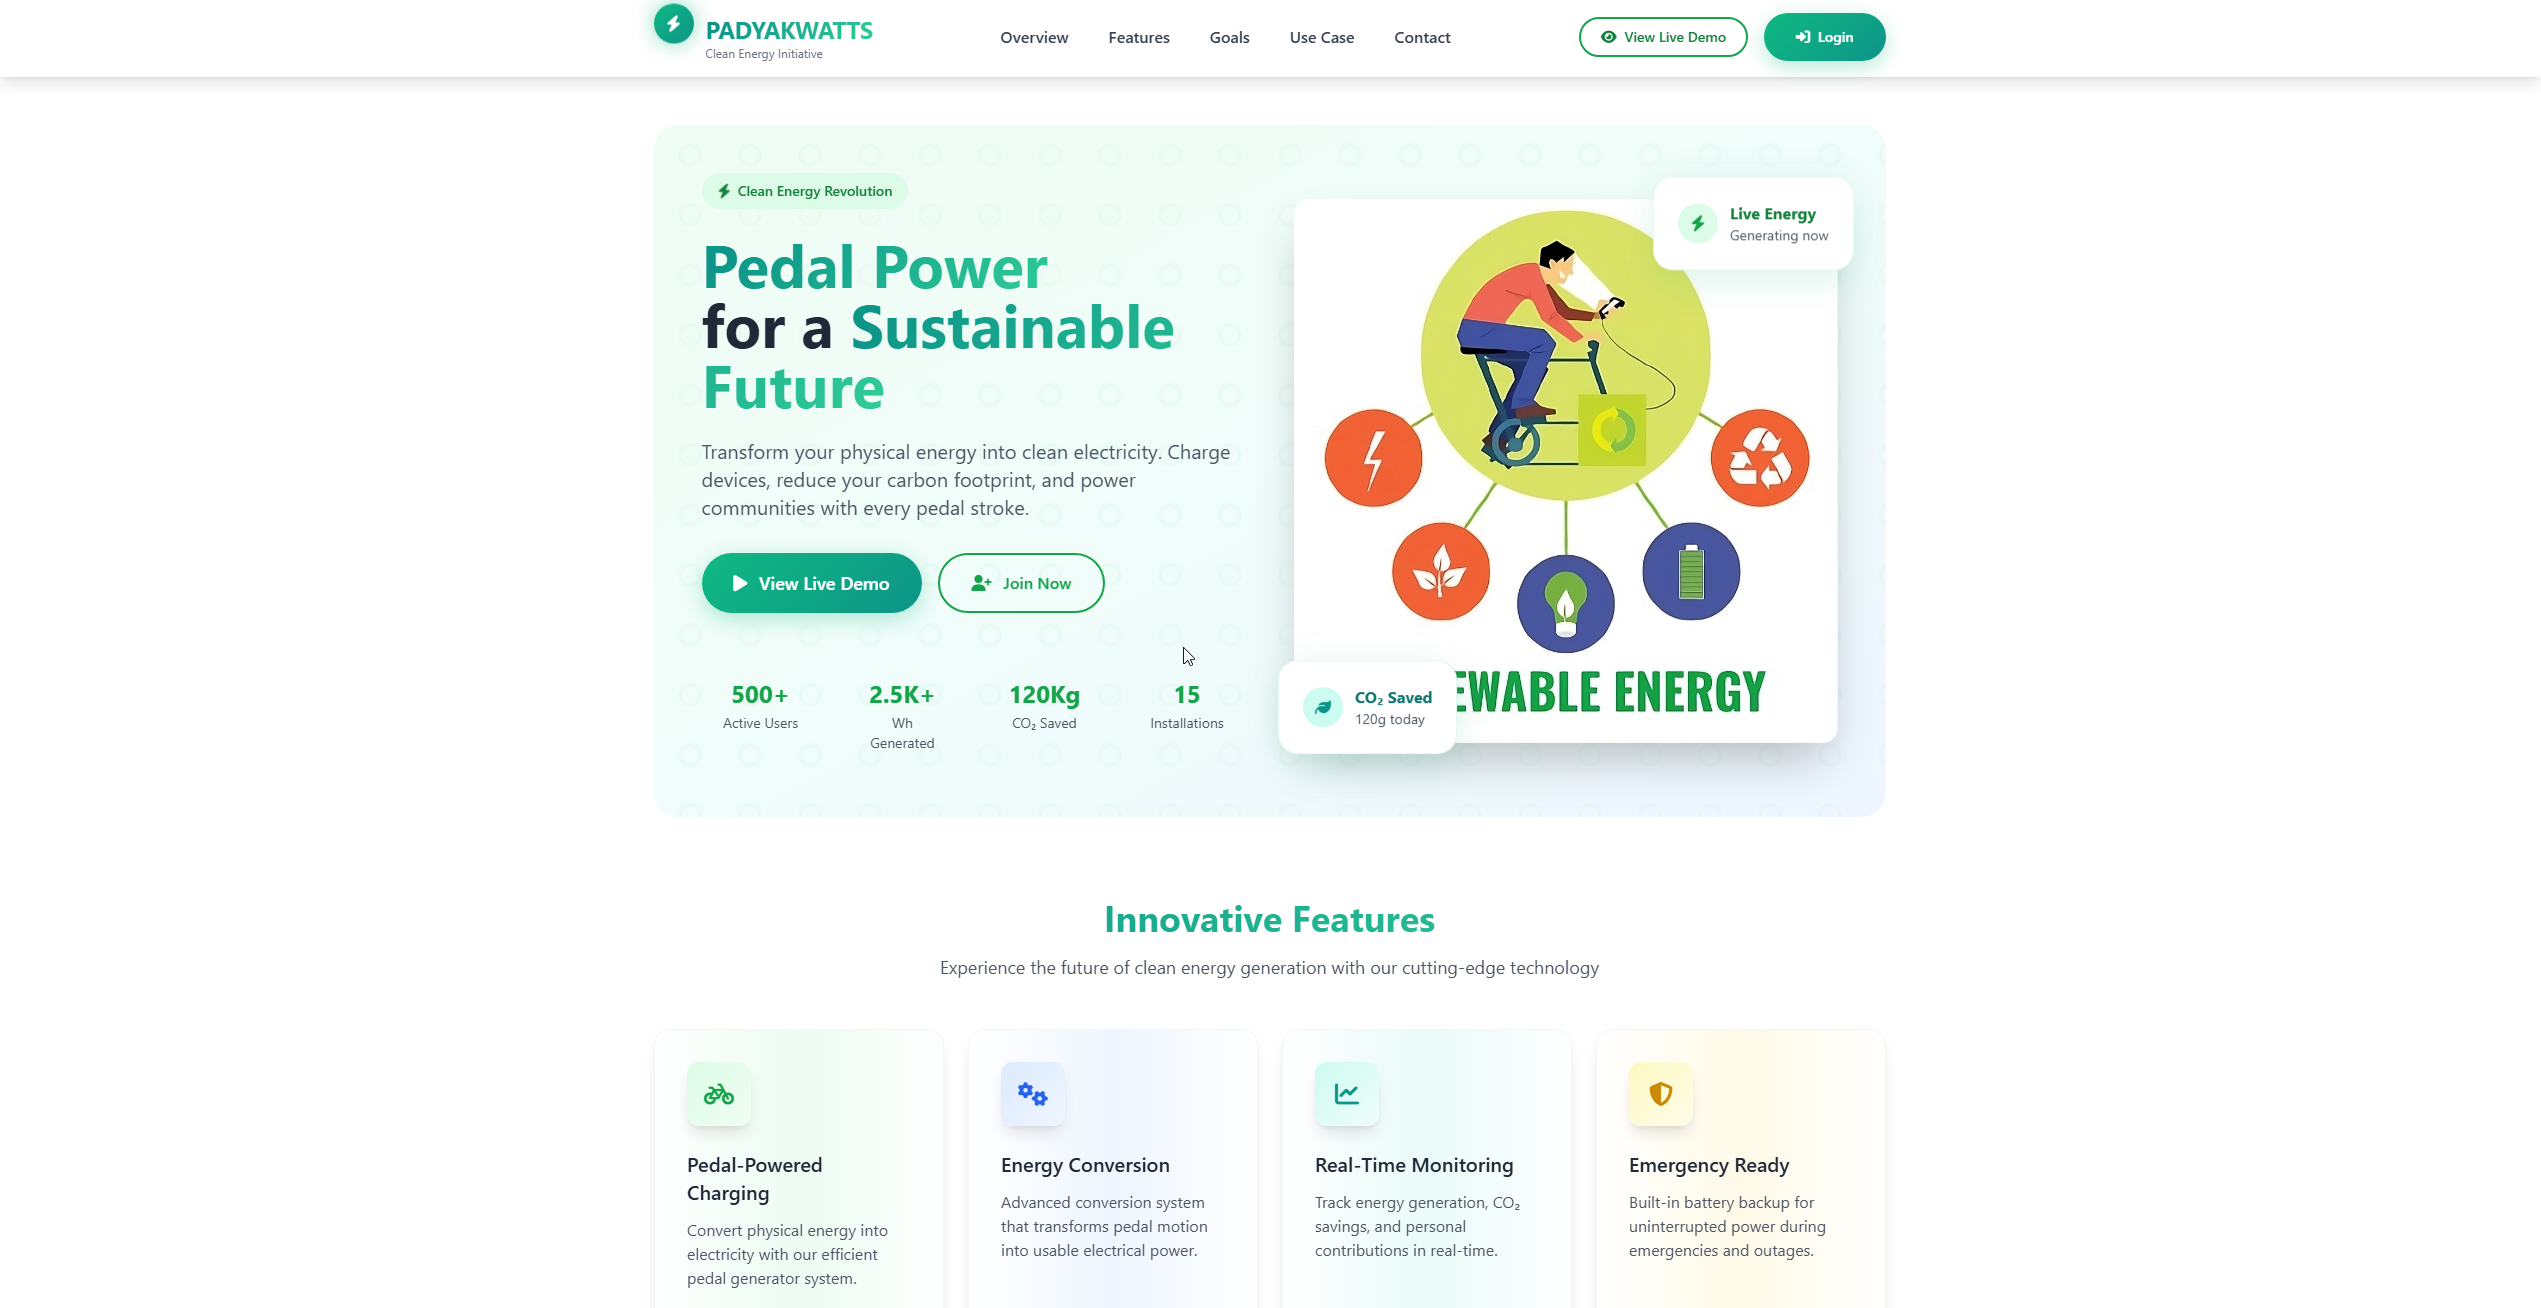
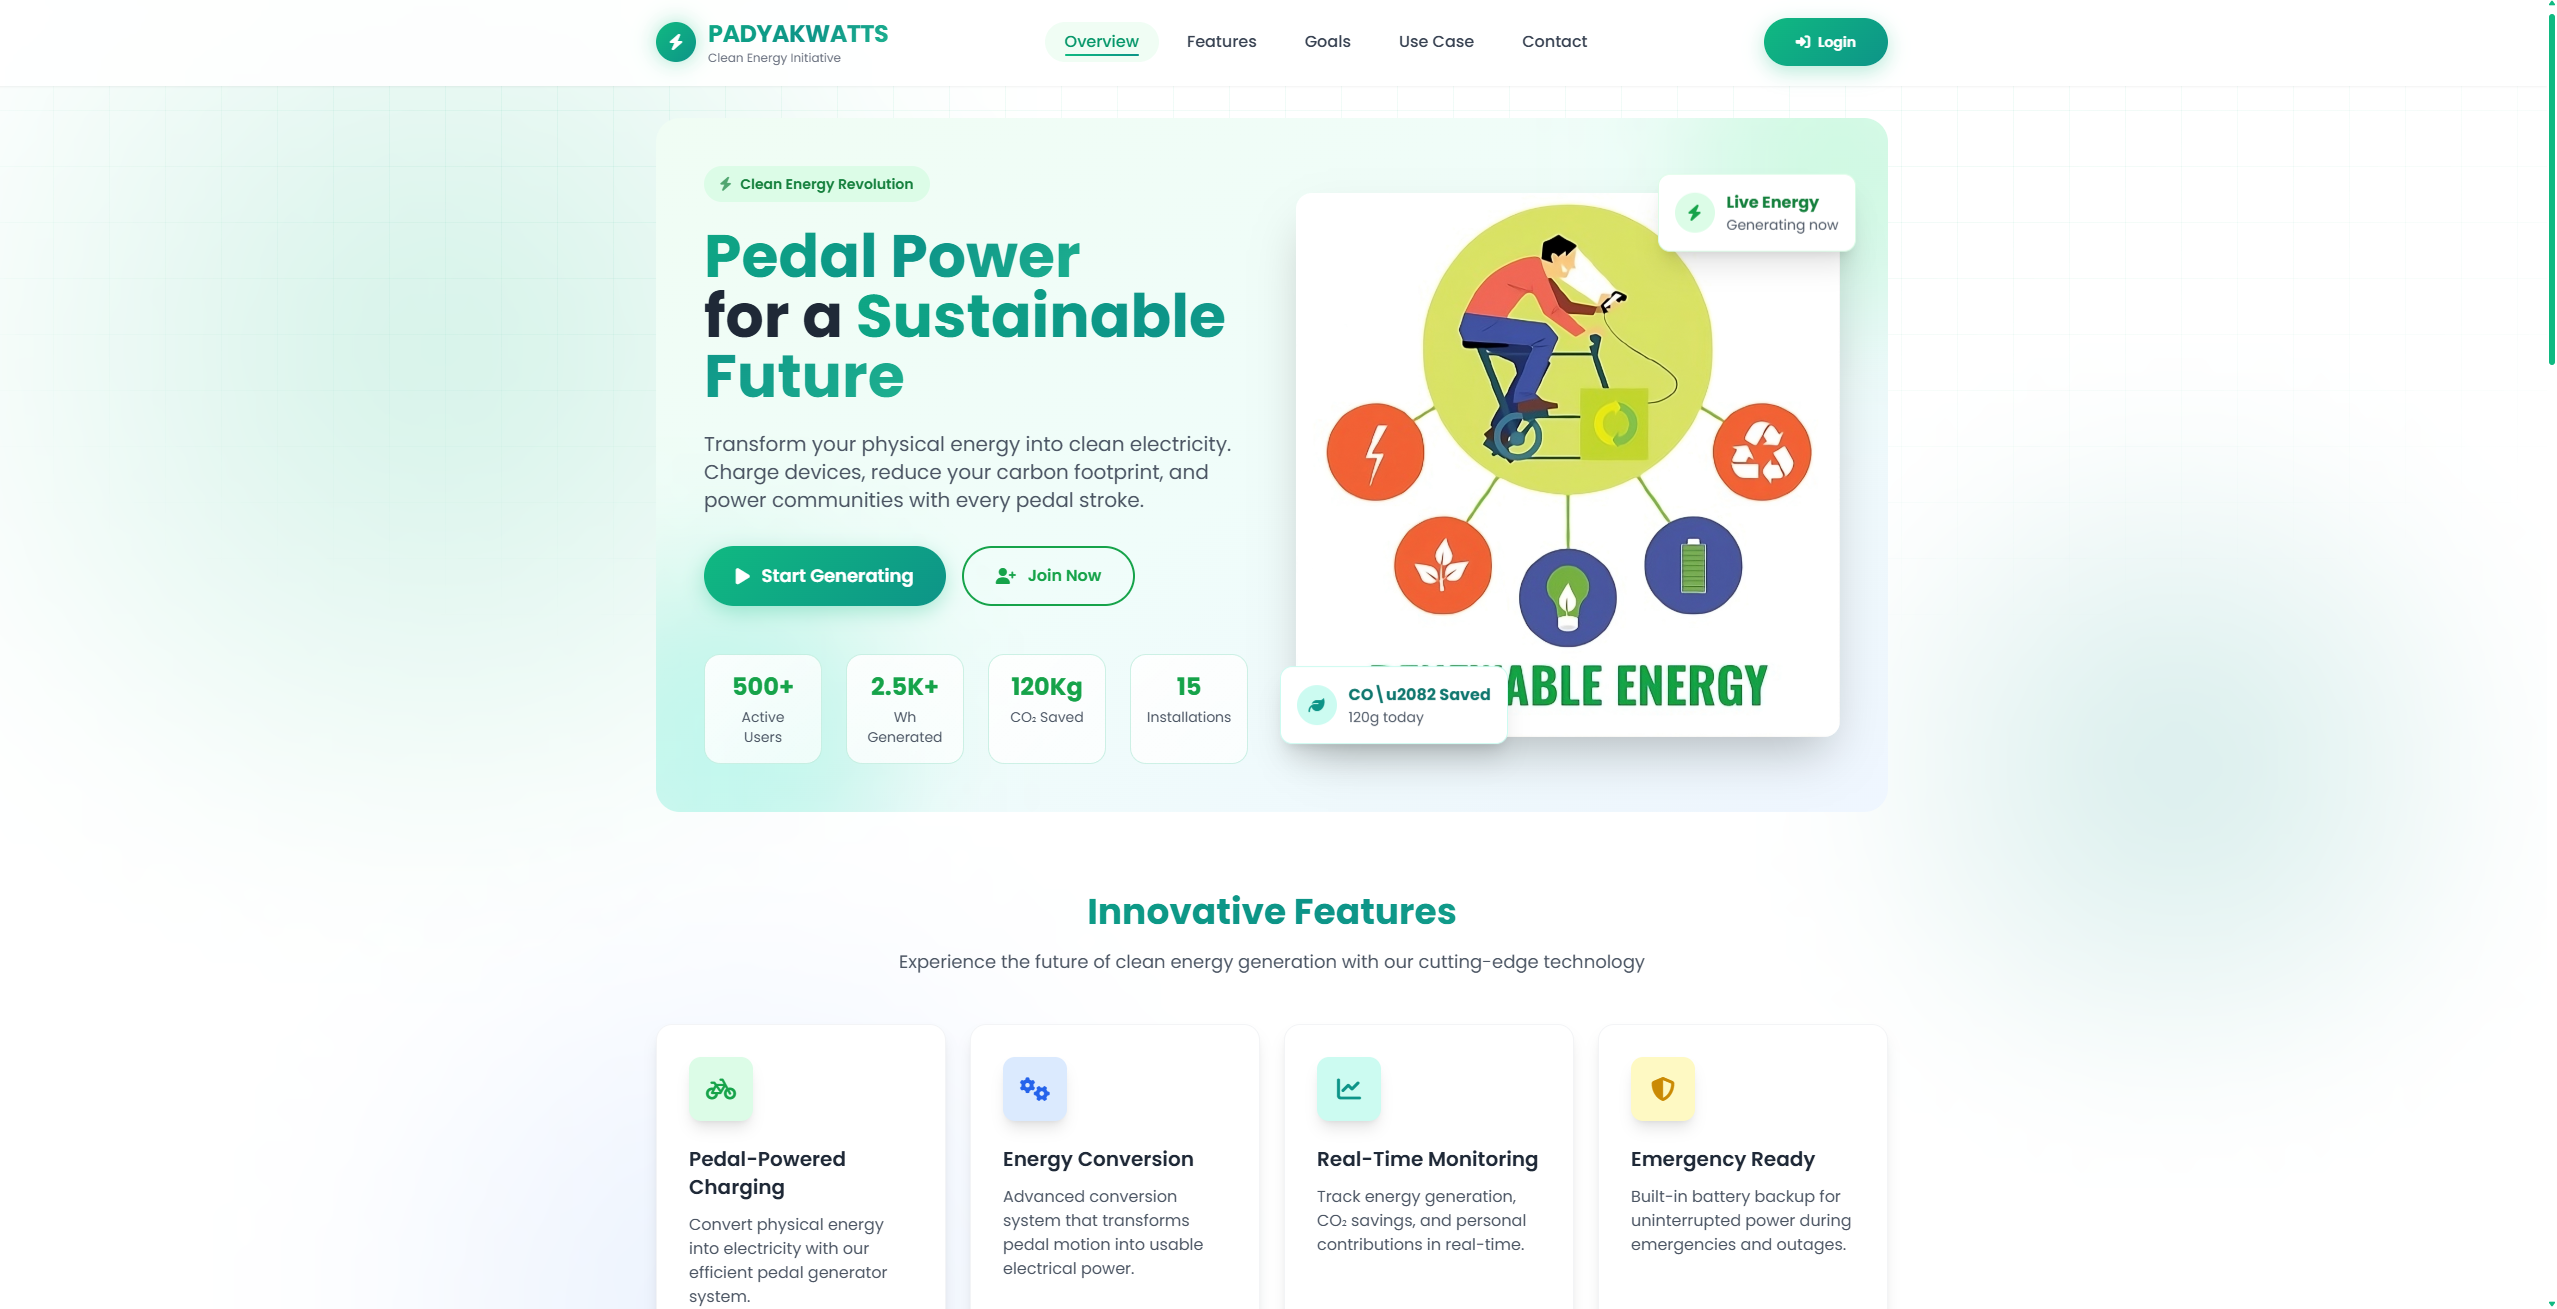
edit

diff --git a/index.html b/index.html
@@ -297,7 +297,7 @@
             <div class="chrome"><span></span><span></span><span></span></div>
             <div class="art"></div>
             <div class="mark">padyakwatts v2</div>
-            <img class="shot-img" src="images/projects/padyakwattsv3.png" alt="Padyakwatts live demo screenshot" loading="lazy" onload="this.closest('.project-shot').classList.add('has-shot')" onerror="this.remove()">
+            <img class="shot-img" src="images/projects/padyakwattsv2.png" alt="Padyakwatts live demo screenshot" loading="lazy" onload="this.closest('.project-shot').classList.add('has-shot')" onerror="this.remove()">
           </div>
           <div class="project-body">
             <h3>Padyakwatts v2</h3>
@@ -321,10 +321,10 @@
             <div class="chrome"><span></span><span></span><span></span></div>
             <div class="art"></div>
             <div class="mark">padyakwatts v1</div>
-            <img class="shot-img" src="images/projects/padyakwattsv2.png" alt="Padyakwatts live demo screenshot" loading="lazy" onload="this.closest('.project-shot').classList.add('has-shot')" onerror="this.remove()">
+            <img class="shot-img" src="images/projects/padyakwattsv1.png" alt="Padyakwatts live demo screenshot" loading="lazy" onload="this.closest('.project-shot').classList.add('has-shot')" onerror="this.remove()">
           </div>
           <div class="project-body">
-            <h3>Padyakwatts v2</h3>
+            <h3>Padyakwatts v1</h3>
             <p>My capstone project, and the one I'm proudest of. A self-sustaining stationary bike that generates electricity while you pedal, charging phones and devices over USB-A/B/C — affordable, eco-friendly, and disaster/emergency-ready. The companion website covers the mission and how it works, plus an account dashboard for owners to track pedaling time, watts generated, electricity savings, and carbon saved, with a direct line to contact us for maintenance or issues.</p>
             <div class="project-tags"><span>Public demo version</span><span>HTML</span><span>CSS</span><span>JS</span><span>Best in Capstone Project</span><span>1st Runner-Up, Saliksik Asianista 2026</span><span>4th year</span></div>
             <div class="project-links">
